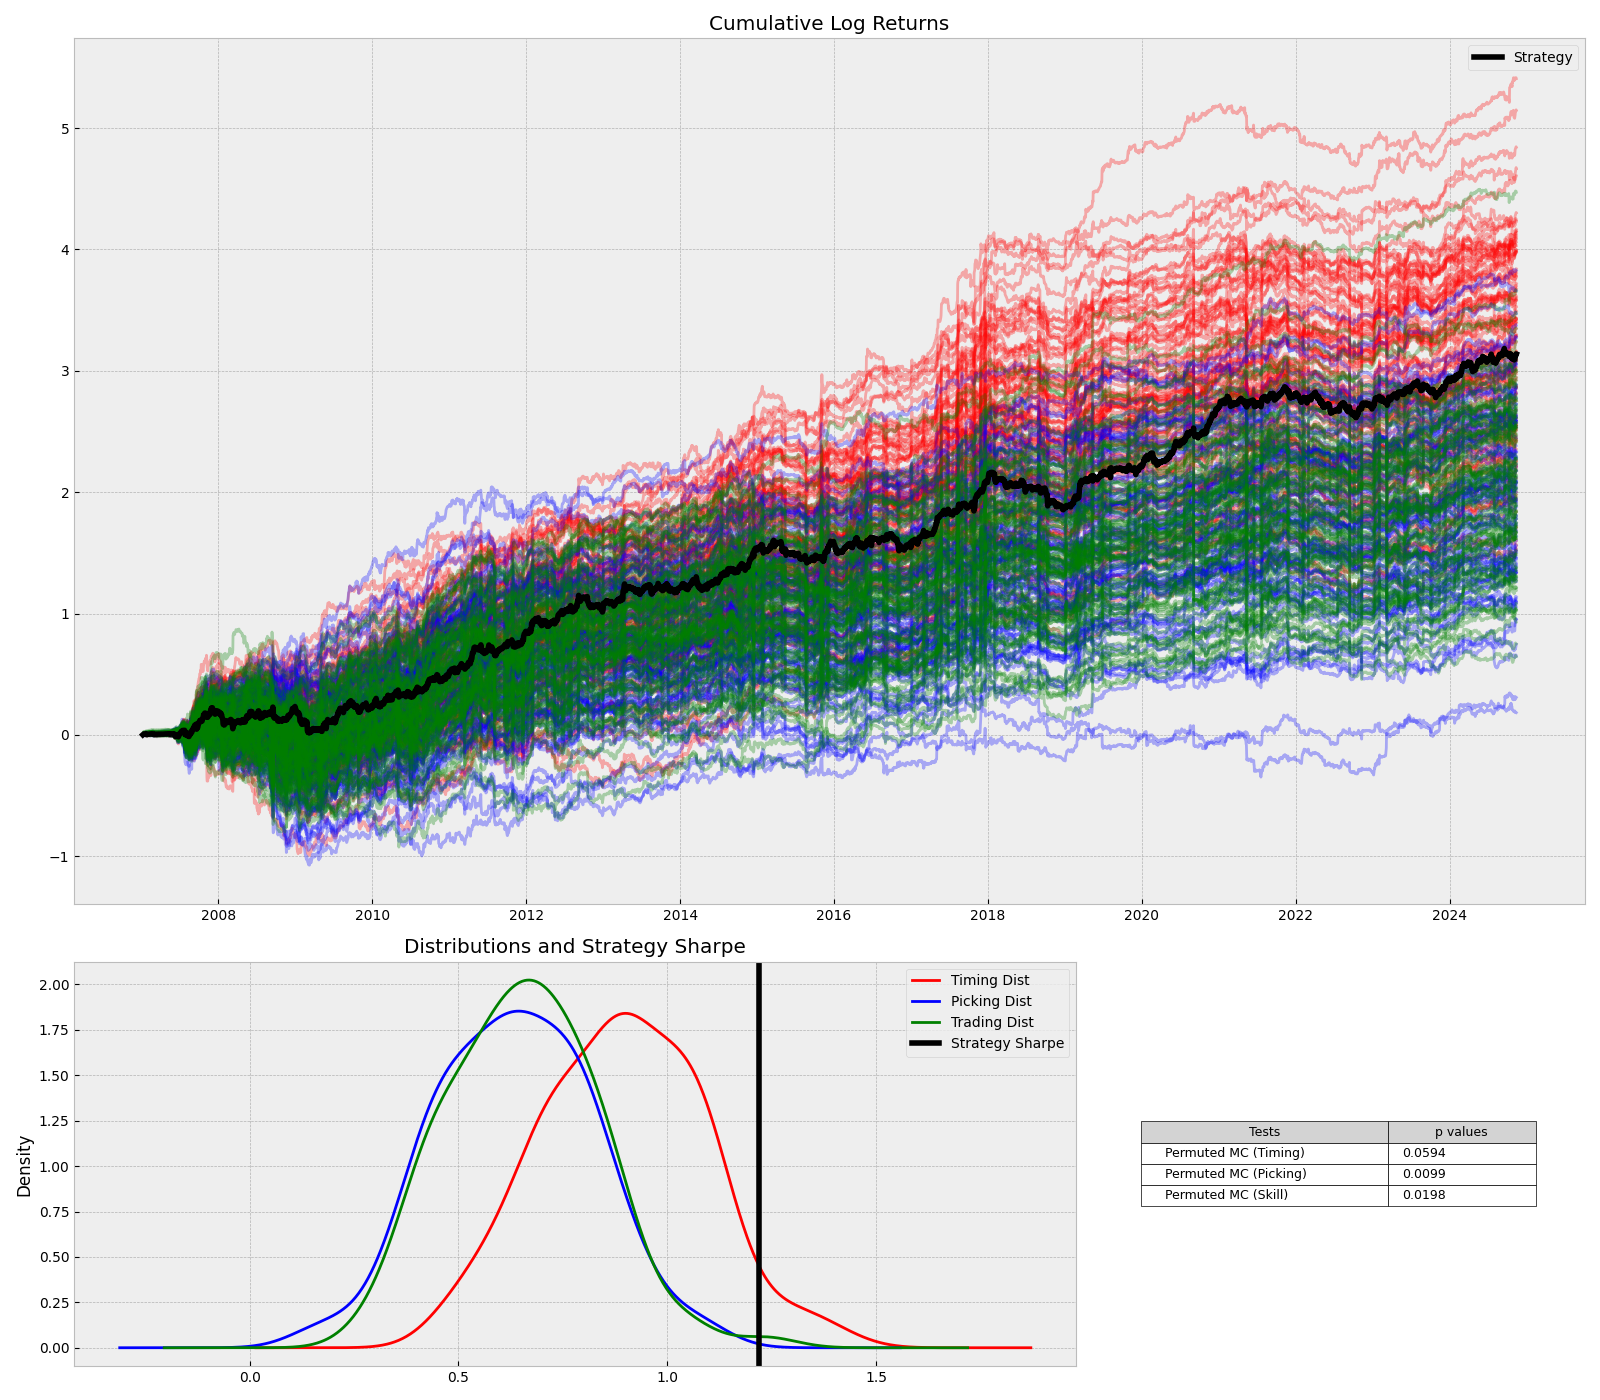
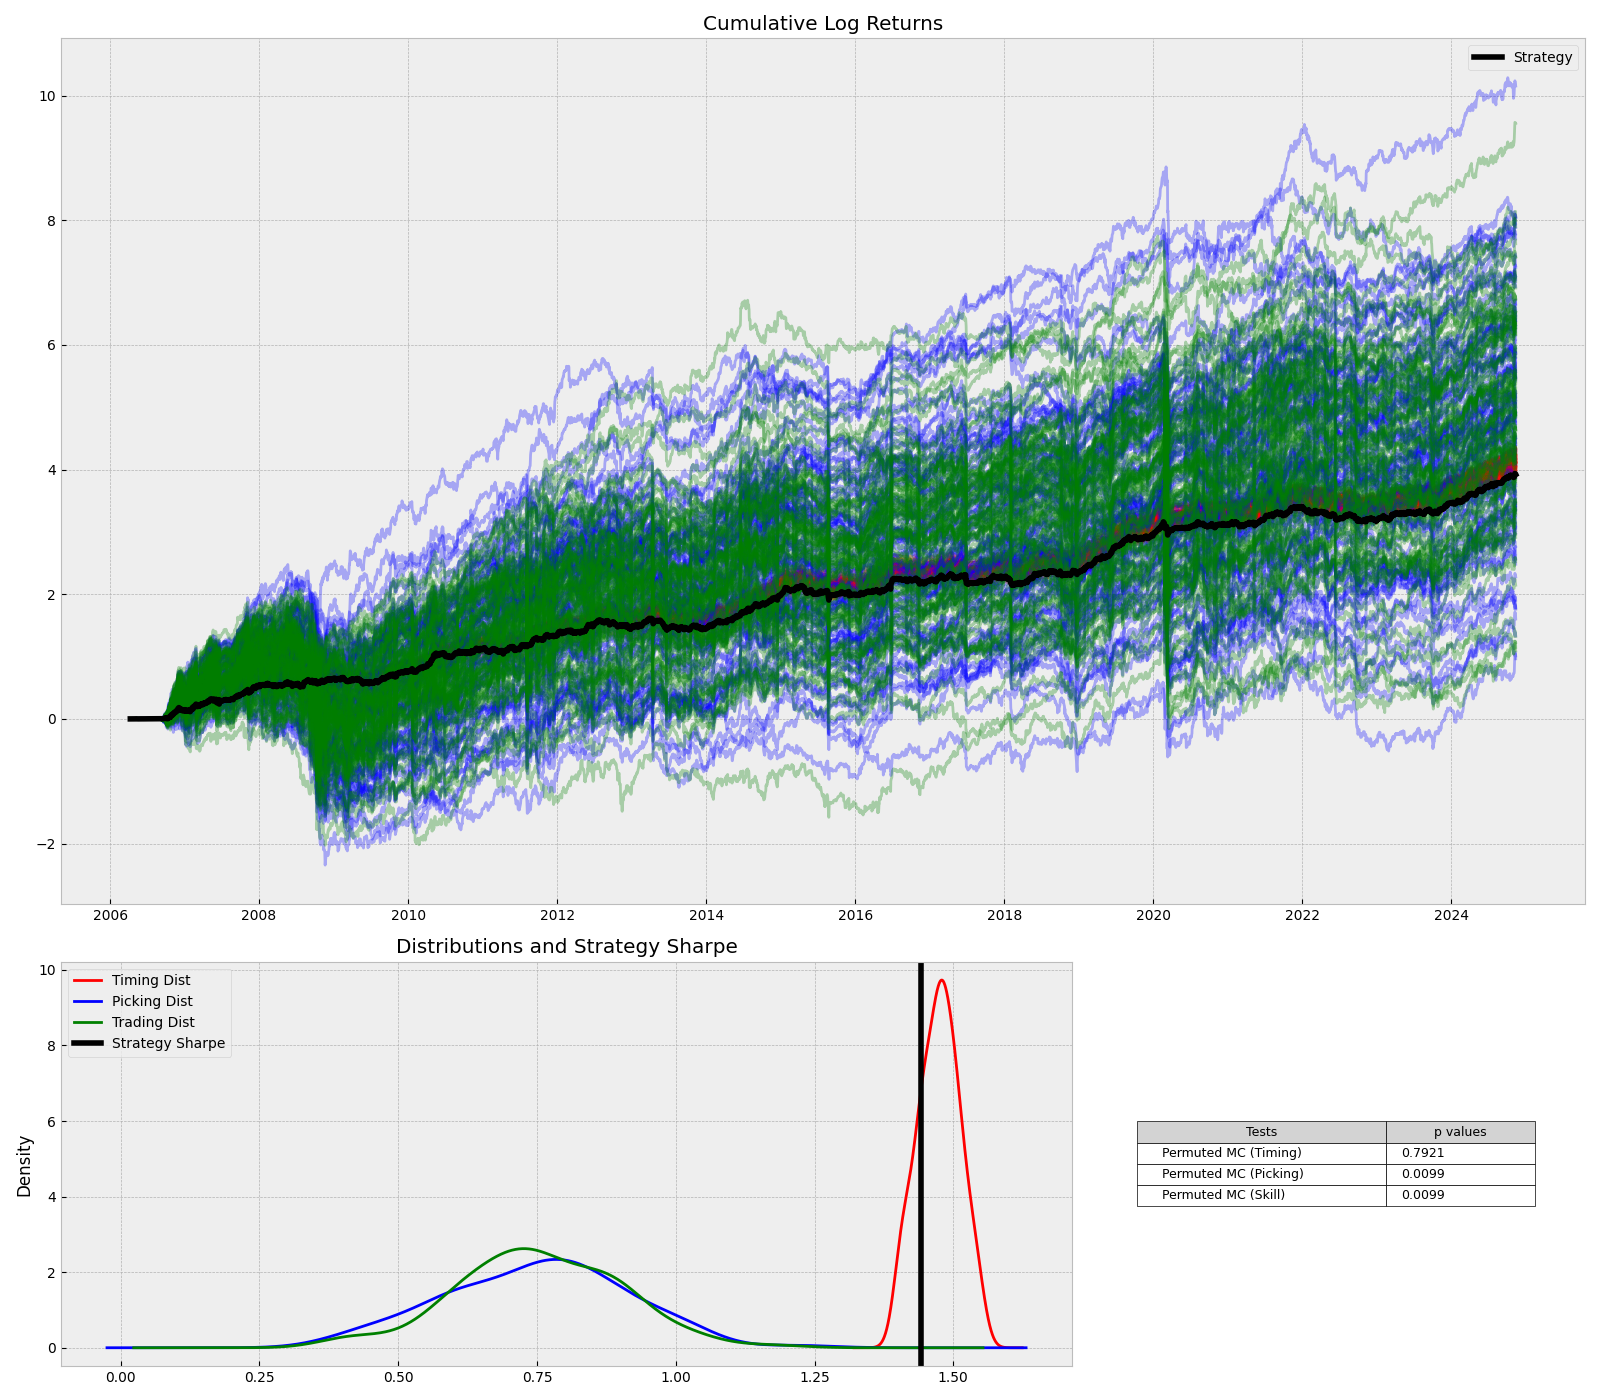
Strategy Updates

diff --git a/backtester/intraday_ml.py b/backtester/intraday_ml.py
@@ -1,0 +1,101 @@
+from datetime import datetime
+from backtester import BacktestEngine
+from pandas.core.api import DataFrame as DataFrame, DatetimeIndex
+from backtester.engine.functions.portfolio_strategies import PositioningStrategy, VolatilityTargetingStrategy
+from sklearn.mixture import GaussianMixture
+
+import numpy as np
+import pandas as pd
+import keras as keras
+
+
+class KerasModel(keras.Model):
+    def __init__(self, df_train: pd.DataFrame, df_test: pd.DataFrame, *args, **kwargs):
+        super().__init__(*args, **kwargs)
+        self.df_train, self.df_test = df_train, df_test
+        self.__init_data__()
+        self.__init_model__()
+        self.compile(
+            loss=keras.losses.BinaryCrossentropy(from_logits=False),
+            optimizer=keras.optimizers.Adam(learning_rate=0.001),
+            metrics=keras.metrics.BinaryAccuracy()
+        )
+        
+    def __init_model__(self):
+        self.input_layer = keras.layers.InputLayer(shape=self._d[1])
+        self.dense_layer1 = keras.layers.Dense(shape=512,activation=keras.activations.relu)
+        self.dense_layer2 = keras.layers.Dense(shape=64,activation=keras.activations.relu)
+        self.output_layer = keras.layers.Dense(shape=1,activation=keras.activations.sigmoid)
+
+    def __init_data__(self) -> None:
+        self._d = self.df_train.shape
+        gmm = GaussianMixture(n_components=2).fit(self.df_train["rets"].values)
+        self.y_train, self.y_test = gmm.predict(self.df_train["rets"].values), gmm.predict(self.df_test["retse"].values)
+        self.X_train, self.X_test = self.df_train.values, self.df_test.values
+        return
+    
+    def call(self):
+        z1 = self.dense_layer1(self.X_train)
+        z2 = self.dense_layer2(z1)
+        return self.output_layer(z2)
+
+
+
+class IntradayML(BacktestEngine):
+    def __init__(
+            self, 
+            insts: list[str], 
+            dfs: dict[str, DataFrame], 
+            start: datetime | None = None, 
+            end: datetime | None = None, 
+            date_range: DatetimeIndex | None = None, 
+            trade_frequency: str | None = None, 
+            day_of_week: str | None = None, 
+            portf_strategy: PositioningStrategy = PositioningStrategy(), 
+            portfolio_vol: float = 0.2, 
+            max_leverage: float = 2, 
+            min_leverage: float = 0, 
+            benchmark: str | None = None
+        ) -> None:
+        super().__init__(insts, dfs, start, end, date_range, trade_frequency, day_of_week, portf_strategy, portfolio_vol, max_leverage, min_leverage, benchmark)
+    
+    def prep_train_test_data(self) -> tuple[pd.DataFrame, pd.DataFrame]:
+        return
+    
+    def model_train(self):
+        df_train, df_test = self.prep_train_test_data()
+        self.model = KerasModel(df_train=df_train, df_test=df_test)
+        self.model.fit(x=self.model.X_train, y=self.model.y_train, batch_size=600, epocs=10)
+        return
+    
+    def model_predict(self,x):
+        return self.model.predict(x=x)
+
+    def pre_compute(self,trade_range):
+        return 
+    
+    def post_compute(self,trade_range):
+        self.model_train()
+        forecast_df = []
+    
+        for inst in self.insts:
+            inst_df = self.dfs[inst]
+            inst_df["vals"] = np.ones(len(inst_df))
+            forecast_df.append(inst_df["vals"])
+
+        alphadf = pd.concat(forecast_df,axis=1)
+        alphadf.columns = self.insts
+
+        self.eligiblesdf = self.eligiblesdf & (~pd.isna(alphadf))
+        masked_df = alphadf/self.eligiblesdf
+        masked_df = masked_df.replace([-np.inf, np.inf], np.nan)
+
+        rankdf = masked_df.rank(axis=1,method="average",na_option="keep",ascending=False)
+
+        forecast_df = masked_df
+        self.forecast_df = forecast_df
+        return 
+
+    def compute_signal_distribution(self, eligibles, date):
+        forecasts = self.forecast_df.loc[date].values
+        return forecasts

diff --git a/backtester/engine/functions/portfolio_strategies.py b/backtester/engine/functions/portfolio_strategies.py
@@ -111,6 +111,7 @@ class MixtureModelsMeanVarianceStrategy(PositioningStrategy):
         **kwargs
     ) -> np.ndarray:
         retdf, max_leverage, trade_frequency = kwargs["retdf"], kwargs["max_leverage"], kwargs["trade_frequency"]
+        forecasts_returns = forecasts
         if idx == 0:
             train_ret, self.ret = self.get_rets(retdf=retdf,trade_frequency=trade_frequency)
             self.model = self.train(train_ret=train_ret)
@@ -122,13 +123,11 @@ class MixtureModelsMeanVarianceStrategy(PositioningStrategy):
             return np.zeros(len(forecasts))
         
         state = self.predict_states(model=self.model, ret=self.ret[(idx - 1):idx,:])
-        state_covar, state_mean = self.get_params(model=self.model, state=state)
+        state_covar, state_means = self.get_params(model=self.model, state=state)
 
-        forecast_chips = np.sum(np.abs(forecasts))
-        expected_returns = state_mean * (forecasts / forecast_chips)
         # Mean-Variance Optimization
         def objective(weights):
-            portfolio_return = np.dot(weights, expected_returns)
+            portfolio_return = np.dot(weights, forecasts_returns)
             portfolio_vol = np.sqrt(np.dot(weights.T, np.dot(state_covar, weights)))
             return -portfolio_return / portfolio_vol 
         
@@ -141,11 +140,8 @@ class MixtureModelsMeanVarianceStrategy(PositioningStrategy):
         init_guess = np.array([1.0 / len(forecasts)] * len(forecasts))
         result = minimize(objective, init_guess, method='SLSQP', bounds=bounds, constraints=constraints)
         optimized_weights = result.x if result.success else np.zeros_like(forecasts)
-        # positions = capitals * optimized_weights / close_row
-        positions = strat_scalar * \
-            optimized_weights  \
-            * vol_target \
-            / (vol_row * close_row)
+        # positions = strat_scalar * optimized_weights * vol_target / (close_row * vol_row)
+        positions = optimized_weights * strat_scalar * capitals / close_row
         return np.floor(positions)
     
     def train(self, train_ret: np.ndarray):
@@ -170,3 +166,21 @@ class MixtureModelsMeanVarianceStrategy(PositioningStrategy):
         self.TRAIN_ID = int(len(retdf) * self.TRAIN_SIZE)
         ret = retdf.shift(1).rolling(wind,min_periods=0).mean().fillna(0).values # shift 1 lag to avoid lookahead bias
         return ret[:self.TRAIN_ID,:], ret
+    
+class EigenPortfolioStrategy(PositioningStrategy):
+    TRAIN_SIZE = 0.6
+
+    def __init__(self) -> None:
+        super().__init__()
+    
+    def get_covars(self, retdf: pd.DataFrame) -> tuple[np.ndarray, np.ndarray]:
+        self.TRAIN_ID = int(len(retdf) * self.TRAIN_SIZE)
+        ret = retdf.shift(1).fillna(0).values # shift 1 lag to avoid lookahead bias
+        train_ret = ret[:self.TRAIN_ID,:]
+        X = train_ret - train_ret.mean()
+        covar = np.dot(X, X.T)
+        eigen_values, eigen_vectors = np.linalg.eig(covar)
+        ind = np.argsort(eigen_values)
+        eigen_vectors = eigen_vectors[ind,:]
+        np.linalg.eig()
+        return 

diff --git a/main.py b/main.py
@@ -9,7 +9,7 @@ from datetime import datetime
 
 
 def vol_carry_main():
-    TICKERS = ["SVXY", "SPY", "^VIX", "^VIX3M", "^VIX6M"]
+    TICKERS = ["SVXY", "SPY", "^VIX", "^VIX3M", "^VIX6M", "BIL"]
 
     db = finance_database(database_name="vix_db")
     db.import_to_database(tickers=TICKERS)
@@ -19,24 +19,23 @@ def vol_carry_main():
     return strategy
 
 def tactical_main():
-    TICKERS = ["QQQ", "GLD", "TLT", "XLE", "DBC", "DBA", "VEU", "XLP", "XLU", "VNQ", "GBTC", "SHY", "UUP"]
-
+    TICKERS = ["QQQ", "XLE", "XLU", "GLD", "TLT", "SHY", "UUP"]
     db = finance_database(database_name="etf_db")
     db.import_to_database(tickers=TICKERS)
     tickers, dfs = db.export_from_database()
 
-    strategy = Tactical(insts=tickers, dfs=dfs, start=datetime(2007,1,1), end=datetime(2024,11,12), benchmark="QQQ", max_leverage=1.5, portfolio_vol=0.15)
+    strategy = Tactical(insts=tickers, dfs=dfs, start=datetime(2006,4,1), end=datetime(2024,11,12), benchmark="QQQ", max_leverage=1.5, portfolio_vol=0.15)
     return strategy
 
 if __name__ == "__main__":
     tactical_strat = tactical_main()
     tactical_strat.run_simulation(use_vol_target=True)
-    # tactical_strat.run_hypothesis_tests(num_decision_shuffles=100,strat_name="tactical_strategy")
-    tactical_strat.get_perf_stats(plot=True,show=False,strat_name="tactical_strategy",compare=False)
+    tactical_strat.run_hypothesis_tests(num_decision_shuffles=100,strat_name="tactical_strategy")
+    tactical_strat.get_perf_stats(plot=True,show=False,strat_name="tactical_strategy",compare=True)
 
     vol_carry_strat = vol_carry_main()
     vol_carry_strat.run_simulation(use_vol_target=False)
-    # vol_carry_strat.run_hypothesis_tests(num_decision_shuffles=100,strat_name="vol_carry_strategy")
+    vol_carry_strat.run_hypothesis_tests(num_decision_shuffles=100,strat_name="vol_carry_strategy")
     vol_carry_strat.get_perf_stats(plot=True,show=False,strat_name="vol_carry_strategy",compare=False)
 
     
@@ -45,6 +44,6 @@ if __name__ == "__main__":
         "vol_carry_strat": vol_carry_strat
     })
 
-    combined = BuyHold(insts=tickers, dfs=dfs, start=datetime(2013,1,1), end=datetime(2024,11,12), portfolio_vol=0.15, max_leverage = 1.)
+    combined = BuyHold(insts=tickers, dfs=dfs, start=datetime(2006,4,1), end=datetime(2024,11,12), portfolio_vol=0.15, max_leverage=1.)
     combined.run_simulation(use_vol_target=True,start_cap=1000000)
     combined.get_perf_stats(plot=True,show=False,strat_name="combined")

diff --git a/backtester/tactical.py b/backtester/tactical.py
@@ -53,10 +53,10 @@ class Tactical(BacktestEngine):
         masked_df = alphadf/self.eligiblesdf
         masked_df = masked_df.replace([-np.inf, np.inf], np.nan)
 
-        rankdf = masked_df.rank(axis=1,method="average",na_option="keep",ascending=False)
+        # rankdf = masked_df.rank(axis=1,method="average",na_option="keep",ascending=False)
 
-        forecast_df = rankdf
-        self.forecast_df = forecast_df
+        # forecast_df = rankdf
+        self.forecast_df = masked_df # forecast_df
         return 
 
     def compute_signal_distribution(self, eligibles, date):

diff --git a/backtester/vol_carry.py b/backtester/vol_carry.py
@@ -49,6 +49,7 @@ class VolCarry(BacktestEngine):
         temp_alpha = []
         for inst in self.insts:
             if inst == "SVXY": temp_alpha.append(short_cond)
+            elif inst == "BIL": temp_alpha.append(1-short_cond)
             else: temp_alpha.append(neutral_pos)
         
         alpha_df = pd.concat(temp_alpha,axis=1)

diff --git a/backtester/engine/functions/performance.py b/backtester/engine/functions/performance.py
@@ -160,7 +160,6 @@ def performance_measures(
         
         # Save or show the plot
         if not show:
-            Path(os.path.abspath(os.getcwd() + path)).mkdir(parents=True, exist_ok=True)
             fig.savefig(f"{path}/stats_board_{strat_name}.png")
             plt.close()
         else:
